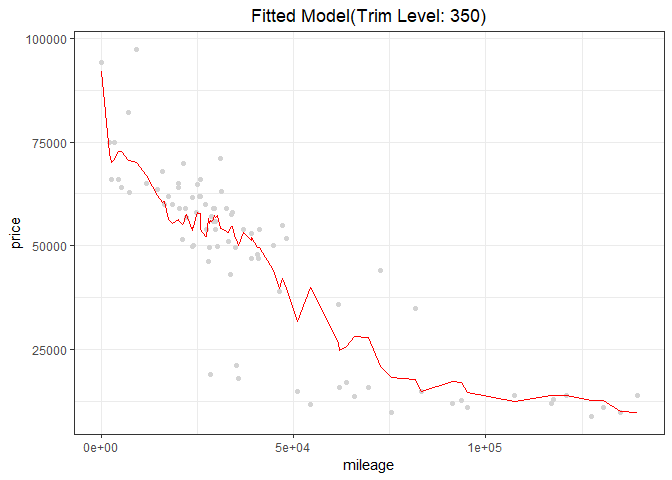
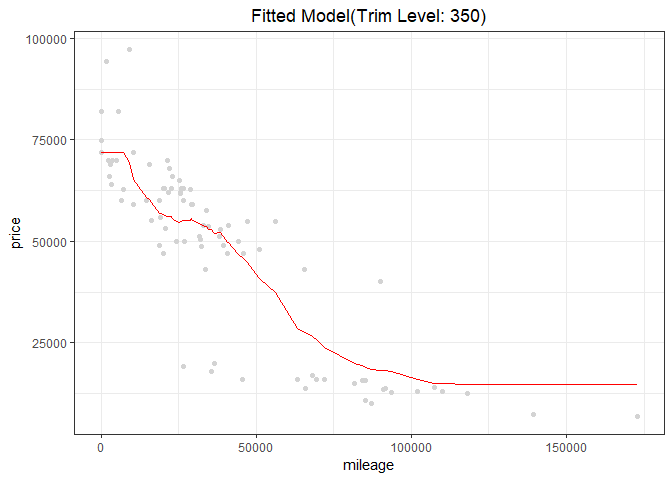
1.2 updated

diff --git a/HW1/Report/Exercise_1_Report.md b/HW1/Report/Exercise_1_Report.md
@@ -6,17 +6,15 @@ By Chong Wang, Tinaping Wu, Zhenning Zhao
 Exercise 1.1
 ------------
 
-The environmentally conscious buildings have some obvious advantages, not only from an eco-friendly view, but also from the financial view, but the "data guru" clearly didn't make an reasonable argument to show the advantages clearly. To be more specific, we conclude that the duration that he calculated to recover the cost is wrong.
+The environmentally friendly buildings have some obvious advantages, not only from an eco-friendly view, but also from the financial aspect. The "data guru" did not make a reasonable argument to quantity the advantages clearly. To be more specific, we believe that the duration that he/she calculated to recover the cost may be mistaken.
 
 <img src="Exercise_1_Report_files/figure-markdown_github/p1.1-1.png" style="display: block; margin: auto;" />
 
-The first step is to clean the data. The "data guru" noticed that a handful of the buildings in the data set had very low occupancy rates. Although this is a true fact, which can be shown in the above graph, he didn't provide a ggod reason for why remove the buildings with less than 10% leasing rate from consideration. It might be true that there are something weird happening with the buildings that have an occupancy rate of zero, but there is no good reason to remove 215 data points from the whole data set. According to a [research conducted by IBM](https://www.ibm.com/support/knowledgecenter/en/SSFCZ3_10.5.2/com.ibm.tri.doc/wpm_metrics/r_occupancy_rate.html), the buildings with a zero leasing rate is called not-used buildings. So we decide to exclude these data points fro the original dataset, instead of all the data with a leasing rate less than 10%.
+The first step is to clean the data. The "data guru" noticed that a handful of the buildings in the data set had very low occupancy rates. Although this is a true fact, which can be shown in the graph above, he/she did not provide a satisfactory reason for why the buildings with less than 10% leasing rate should be removed from consideration. Due to this fact, we disagree to simply delete these 215 data points. Instead, we were able to identify a reason to delete buildings with 0% occupancy rate. According to a [research conducted by IBM](https://www.ibm.com/support/knowledgecenter/en/SSFCZ3_10.5.2/com.ibm.tri.doc/wpm_metrics/r_occupancy_rate.html), buildings with a 0% leasing rate is called “not-used buildings”. Since our new building will certainly be used, we can comfortably exclude these data points from the original data set.
 
-After that, we tried to clean the data further from the view that the "data guru" didn't think of. We noticed that this new project is in Austin. Since we checked from the internet that the tallest building in Austin is 56 floors, it makes no sense to do the analysis with the building that are too tall for Austin. Hence, we exclude all the buildings whose cluster has a building taller than 56 stories, and we end up with 6,618 data in the dataset.
+After that, we tried to clean the data even furthur. Since this new project is in Austin with the tallest building at 56 floors, clusters with buildings higher than this value are clearly not in Austin and therefore should be removed from the data set. As the result, we are left with 6,618 data points.
 
-<img src="Exercise_1_Report_files/figure-markdown_github/p1.2-1.png" style="display: block; margin: auto;" />
-
-According to the "data guru", there are still many outlier from the dataset after the data cleaning, so he choose to use the median instead of the mean to calculate the expected rent for green buildings and non-green buildings. We plot the boxplot of green buildings and non-green buildings, to give a basic taste of the data. it seems that the "data guru" was right about the outliers, but it is unclear why there are so many outliers. So we digged deeper, and got some interesting findings.
+<img src="Exercise_1_Report_files/figure-markdown_github/p1.2-1.png" style="display: block; margin: auto;" /> According to the "data guru", there are still many outliers after data cleaning, so he/she chooses to use the median instead of the mean to calculate the expected rent to compare green and non-green buildings. We plot the boxplot of green and non-green buildings to get a overview of the data. It seems that the "data guru" was right about the outliers, but it is unclear why there are so many outliers. So we digged deeper, and got some interesting findings.
 
     ##    Min. 1st Qu.  Median    Mean 3rd Qu.    Max. 
     ##    2378   47783  112924  200689  259000 3448680
@@ -38,6 +36,30 @@ According to the "data guru", there are still many outlier from the dataset afte
 Exercise 1.2
 ------------
 
+![](Exercise_1_Report_files/figure-markdown_github/Q1.2.1-1.png)
+
+![](Exercise_1_Report_files/figure-markdown_github/Q1.2.2-1.png)
+
+![](Exercise_1_Report_files/figure-markdown_github/Q1.2.3-1.png)
+
+![](Exercise_1_Report_files/figure-markdown_github/Q1.2.4-1.png)
+
+![](Exercise_1_Report_files/figure-markdown_github/Q1.2.5-1.png)
+
+![](Exercise_1_Report_files/figure-markdown_github/Q1.2.6-1.png)
+
+![](Exercise_1_Report_files/figure-markdown_github/Q1.2.7-1.gif)
+
+![](Exercise_1_Report_files/figure-markdown_github/Q1.2.8-1.gif)
+
+![](Exercise_1_Report_files/figure-markdown_github/Q1.2.9-1.png)
+
+![](Exercise_1_Report_files/figure-markdown_github/Q1.2.10-1.png)
+
+![](Exercise_1_Report_files/figure-markdown_github/Q1.2.11-1.png)
+
+![](Exercise_1_Report_files/figure-markdown_github/Q1.2.12-1.png)
+
 Exercise 1.3
 ------------
 
@@ -51,7 +73,7 @@ We splited the data into a training and a testing set. There are 80% of the data
 
 The optimal K for trim level 350 is printed below:
 
-    ## [1] 11
+    ## [1] 70
 
 Since the traning set is chosen randomly, if we run the KNN for several times, we will get different result. But generally, we can get the optimal K for trim level 350 is about 19. Then for the optimal value of K in this one running, a plot of the fitted modelis shown below:
 
@@ -67,7 +89,7 @@ We splited the data into a training and a testing set. There are 80% of the data
 
 The optimal K for trim level 65 AMG is printed below:
 
-    ## [1] 9
+    ## [1] 7
 
 Since the traning set is chosen randomly, if we run the KNN for several times, we will get different result. But generally, we can get the optimal K for trim level 65 AMG is about 16. Then for the optimal value of K in this one running, a plot of the fitted modelis shown below:
 
